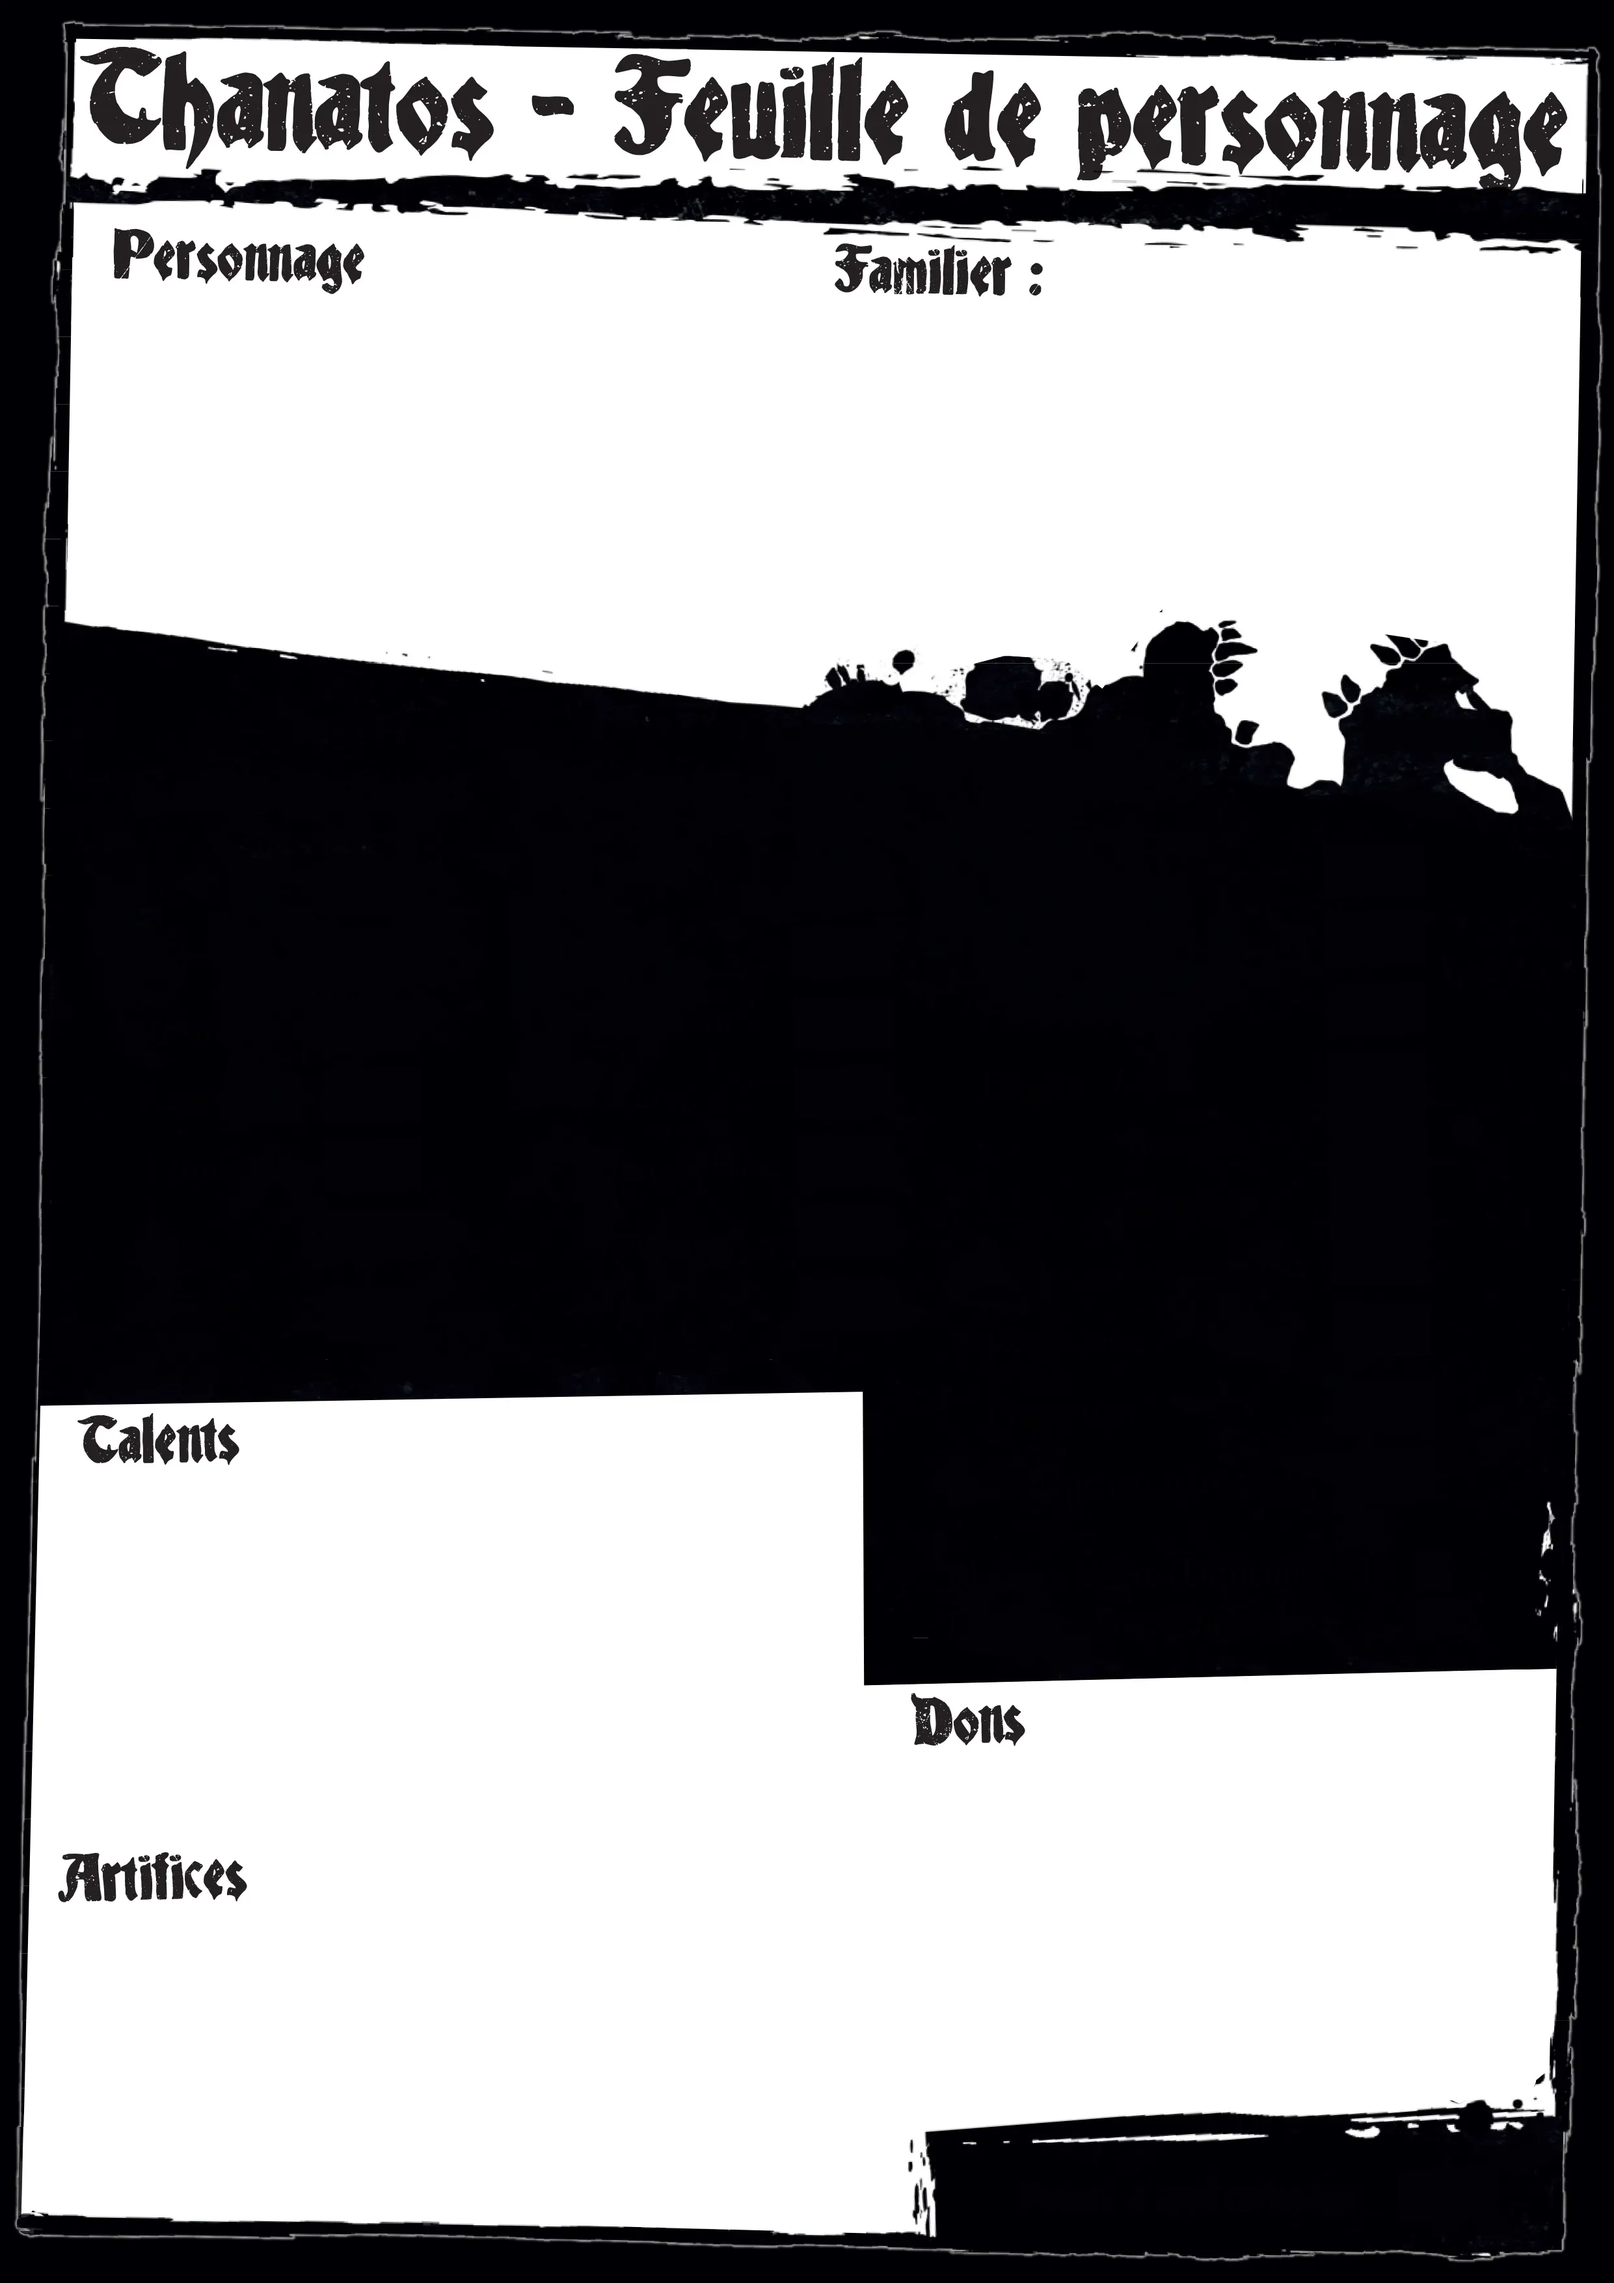
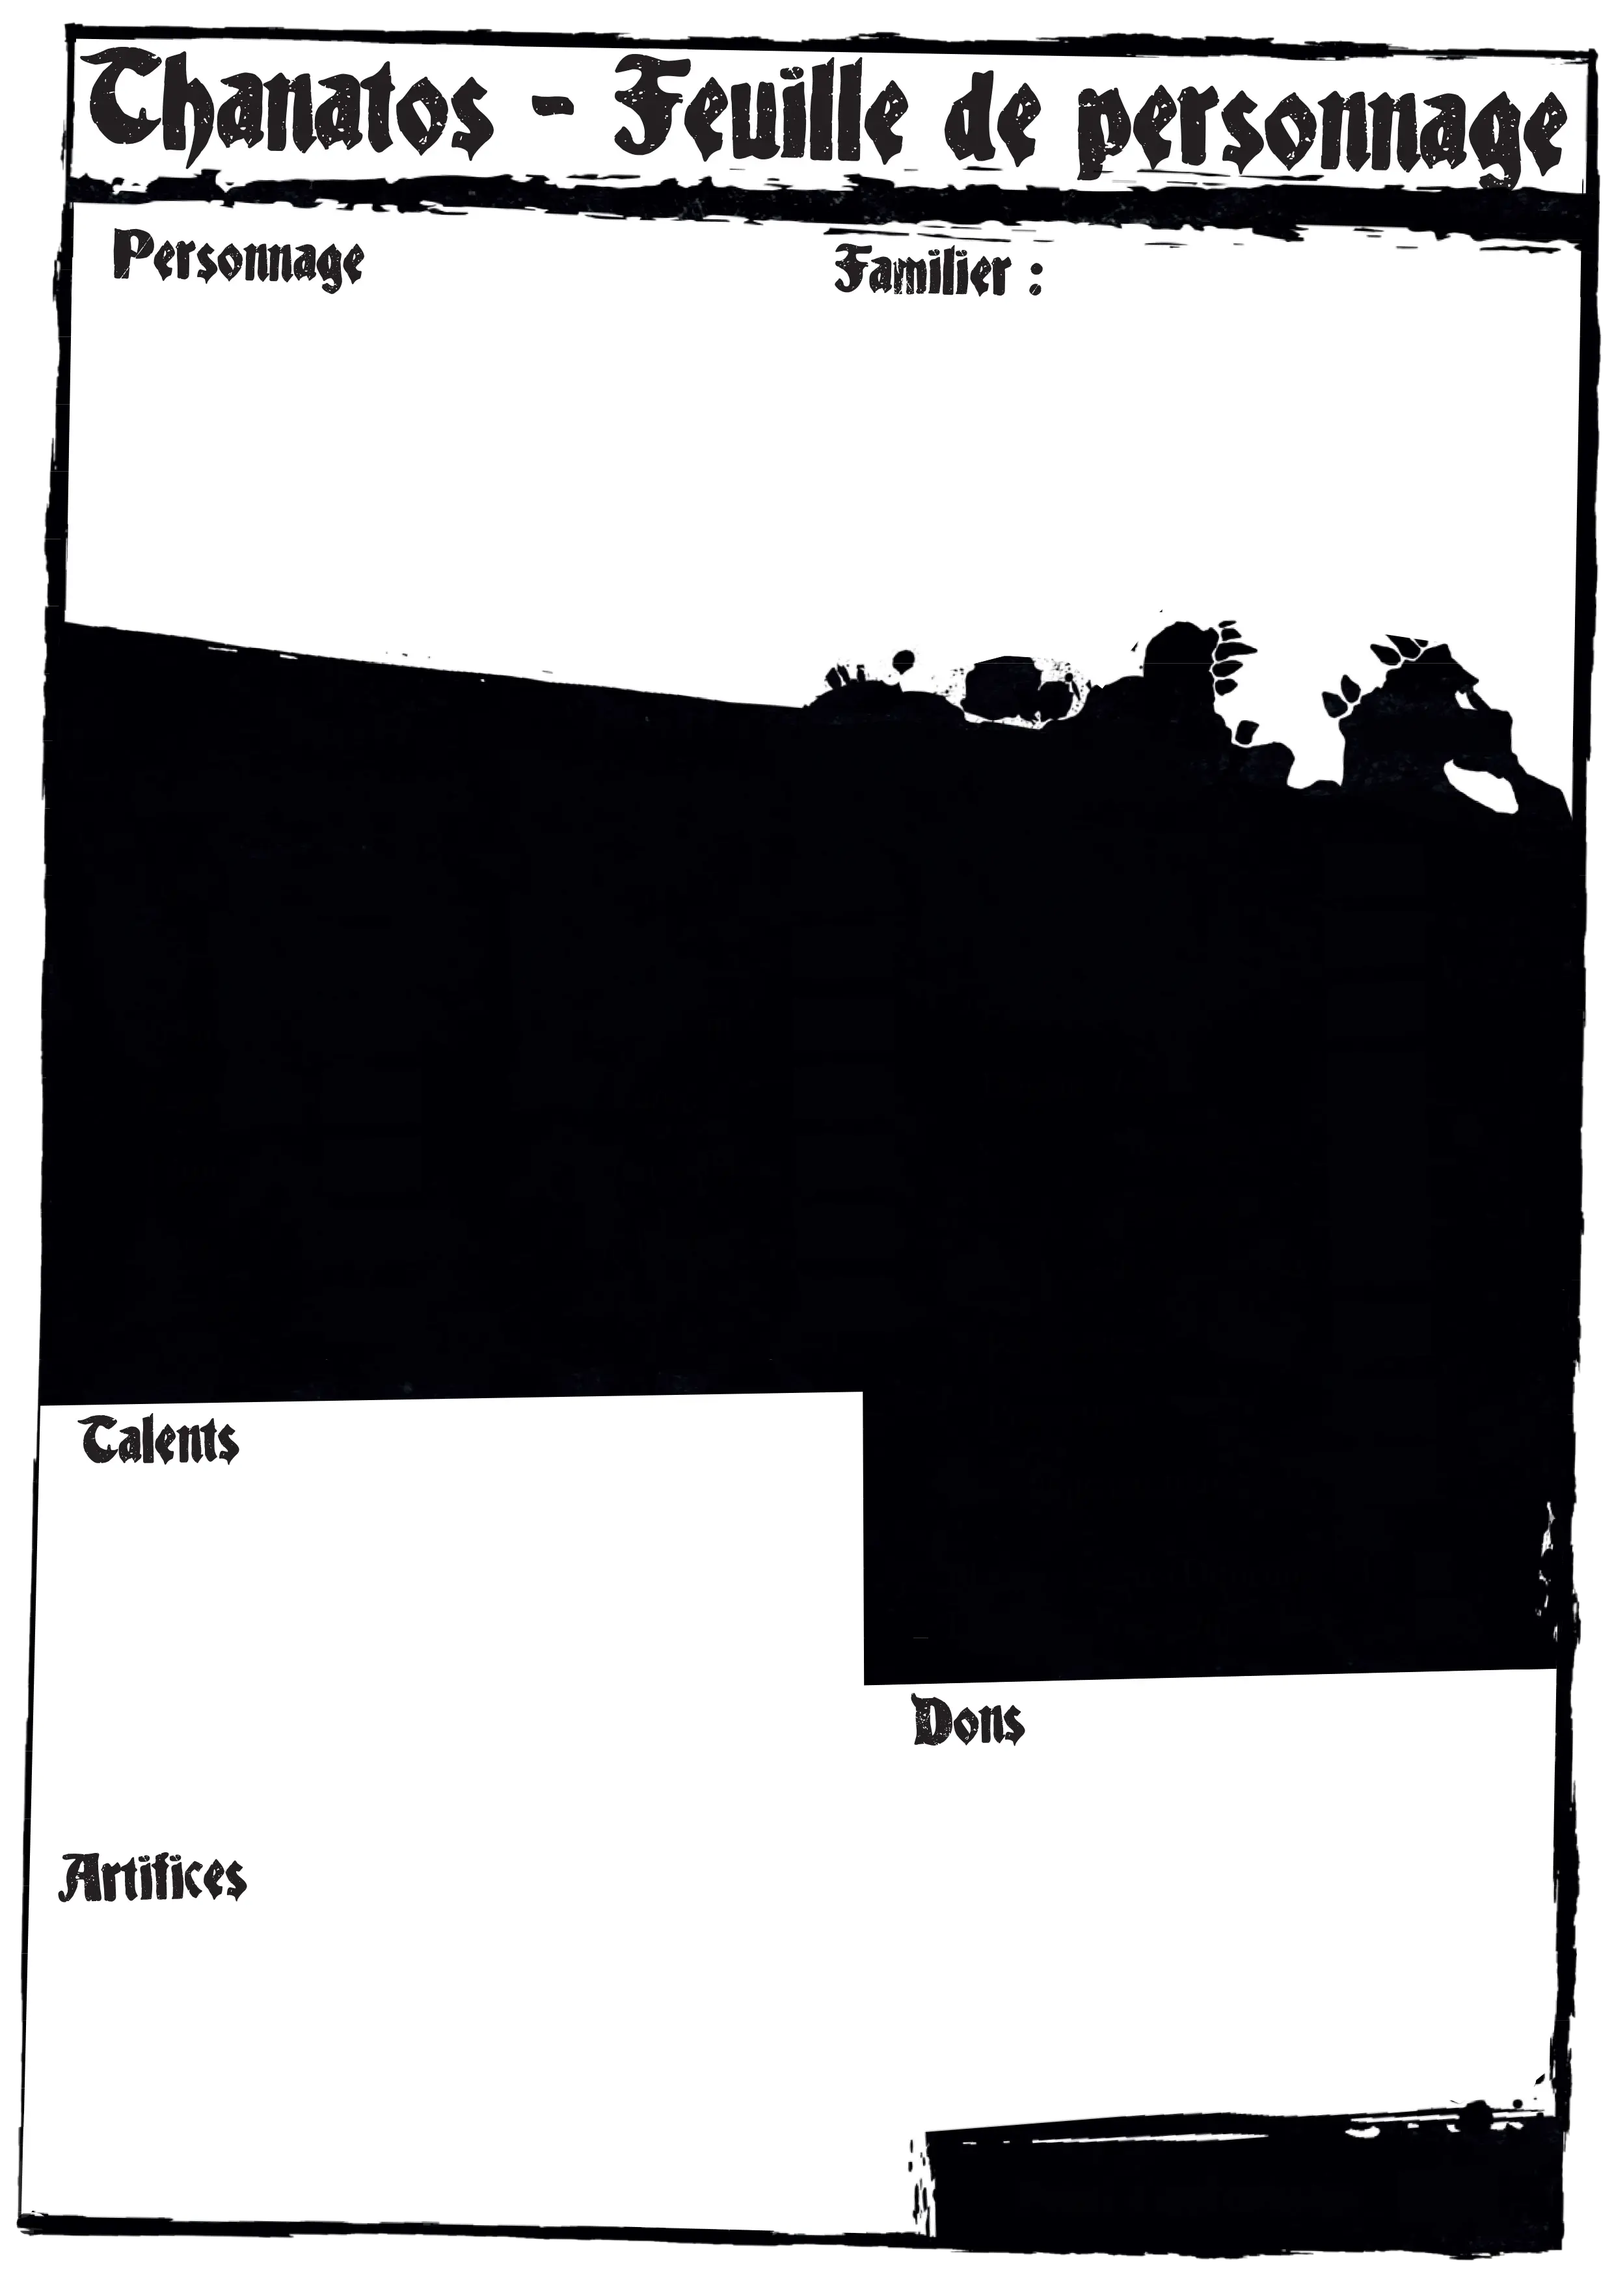
update

Changed region(s): [[0.0, 0.0, 1.0, 1.0]]

diff --git a/Thanatos/thanatos.css b/Thanatos/thanatos.css
@@ -12,7 +12,7 @@
 }
 
 .sheet-darkmode .sheetform {
-    background-color: red;
+    background-color: #ffffff;
 }
 
 body.sheet-darkmode .charsheet {
@@ -68,33 +68,33 @@ body.sheet-darkmode .charsheet {
 
 
 div.personnage {  
-	width: 960px;
-	height: auto;
-	background-image: url(https://raw.githubusercontent.com/ctotone/);
+    width: 830px;
+    height: 1174px;
+	background-image: url(https://raw.githubusercontent.com/ctotone/JdR/refs/heads/main/Thanatos/images/background_personnage.webp);
     background-size: cover;
 	background-repeat: no-repeat;
 }
 
 div.equipement {  
-	width: 960px;
-	height: auto;
-	background-image: url(https://raw.githubusercontent.com/ctotone/);
+    width: 830px;
+    height: 1174px;
+	background-image: url(https://raw.githubusercontent.com/ctotone/JdR/refs/heads/main/Thanatos/images/background_equipement.webp);
     background-size: cover;
 	background-repeat: no-repeat;
 }
 
 div.parcours_de_vie {  
-	width: 960px;
-	height: auto;
-	background-image: url(https://raw.githubusercontent.com/ctotone/);
+    width: 965px;
+    height: 1368px;
+	background-image: url(https://raw.githubusercontent.com/ctotone/JdR/refs/heads/main/Thanatos/images/background_parcours.webp);
     background-size: cover;
 	background-repeat: no-repeat;
 }
 
 div.personnes_marquantes {  
-	width: 960px;
-	height: auto;
-	background-image: url(https://raw.githubusercontent.com/ctotone/);
+    width: 965px;
+    height: 1368px;
+	background-image: url(https://raw.githubusercontent.com/ctotone/JdR/refs/heads/main/Thanatos/images/background_personnes.webp);
     background-size: cover;
 	background-repeat: no-repeat;
 }
@@ -108,10 +108,10 @@ div.personnes_marquantes {
     display: none;
 }
 
-.charsheet .page[value="0"] ~ div.personnage,
-.charsheet .page[value="1"] ~ div.equipement,
-.charsheet .page[value="2"] ~ div.parcours_de_vie,
-.charsheet .page[value="3"] ~ div.personnes_marquantes {
+.charsheet .choix_page[value="0"] ~ div.personnage,
+.charsheet .choix_page[value="1"] ~ div.equipement,
+.charsheet .choix_page[value="2"] ~ div.parcours_de_vie,
+.charsheet .choix_page[value="3"] ~ div.personnes_marquantes {
     display: block;
 }
 

diff --git a/Thanatos/thanatos.html b/Thanatos/thanatos.html
@@ -5,3 +5,8 @@
 		<option value="2">Parcours</option>
 		<option value="3">Persones</option>
 	</select>
+
+<div class="personnage"></div>
+<div class="equipement"></div>
+<div class="parcours_de_vie"></div>
+<div class="personnes_marquantes"></div>
